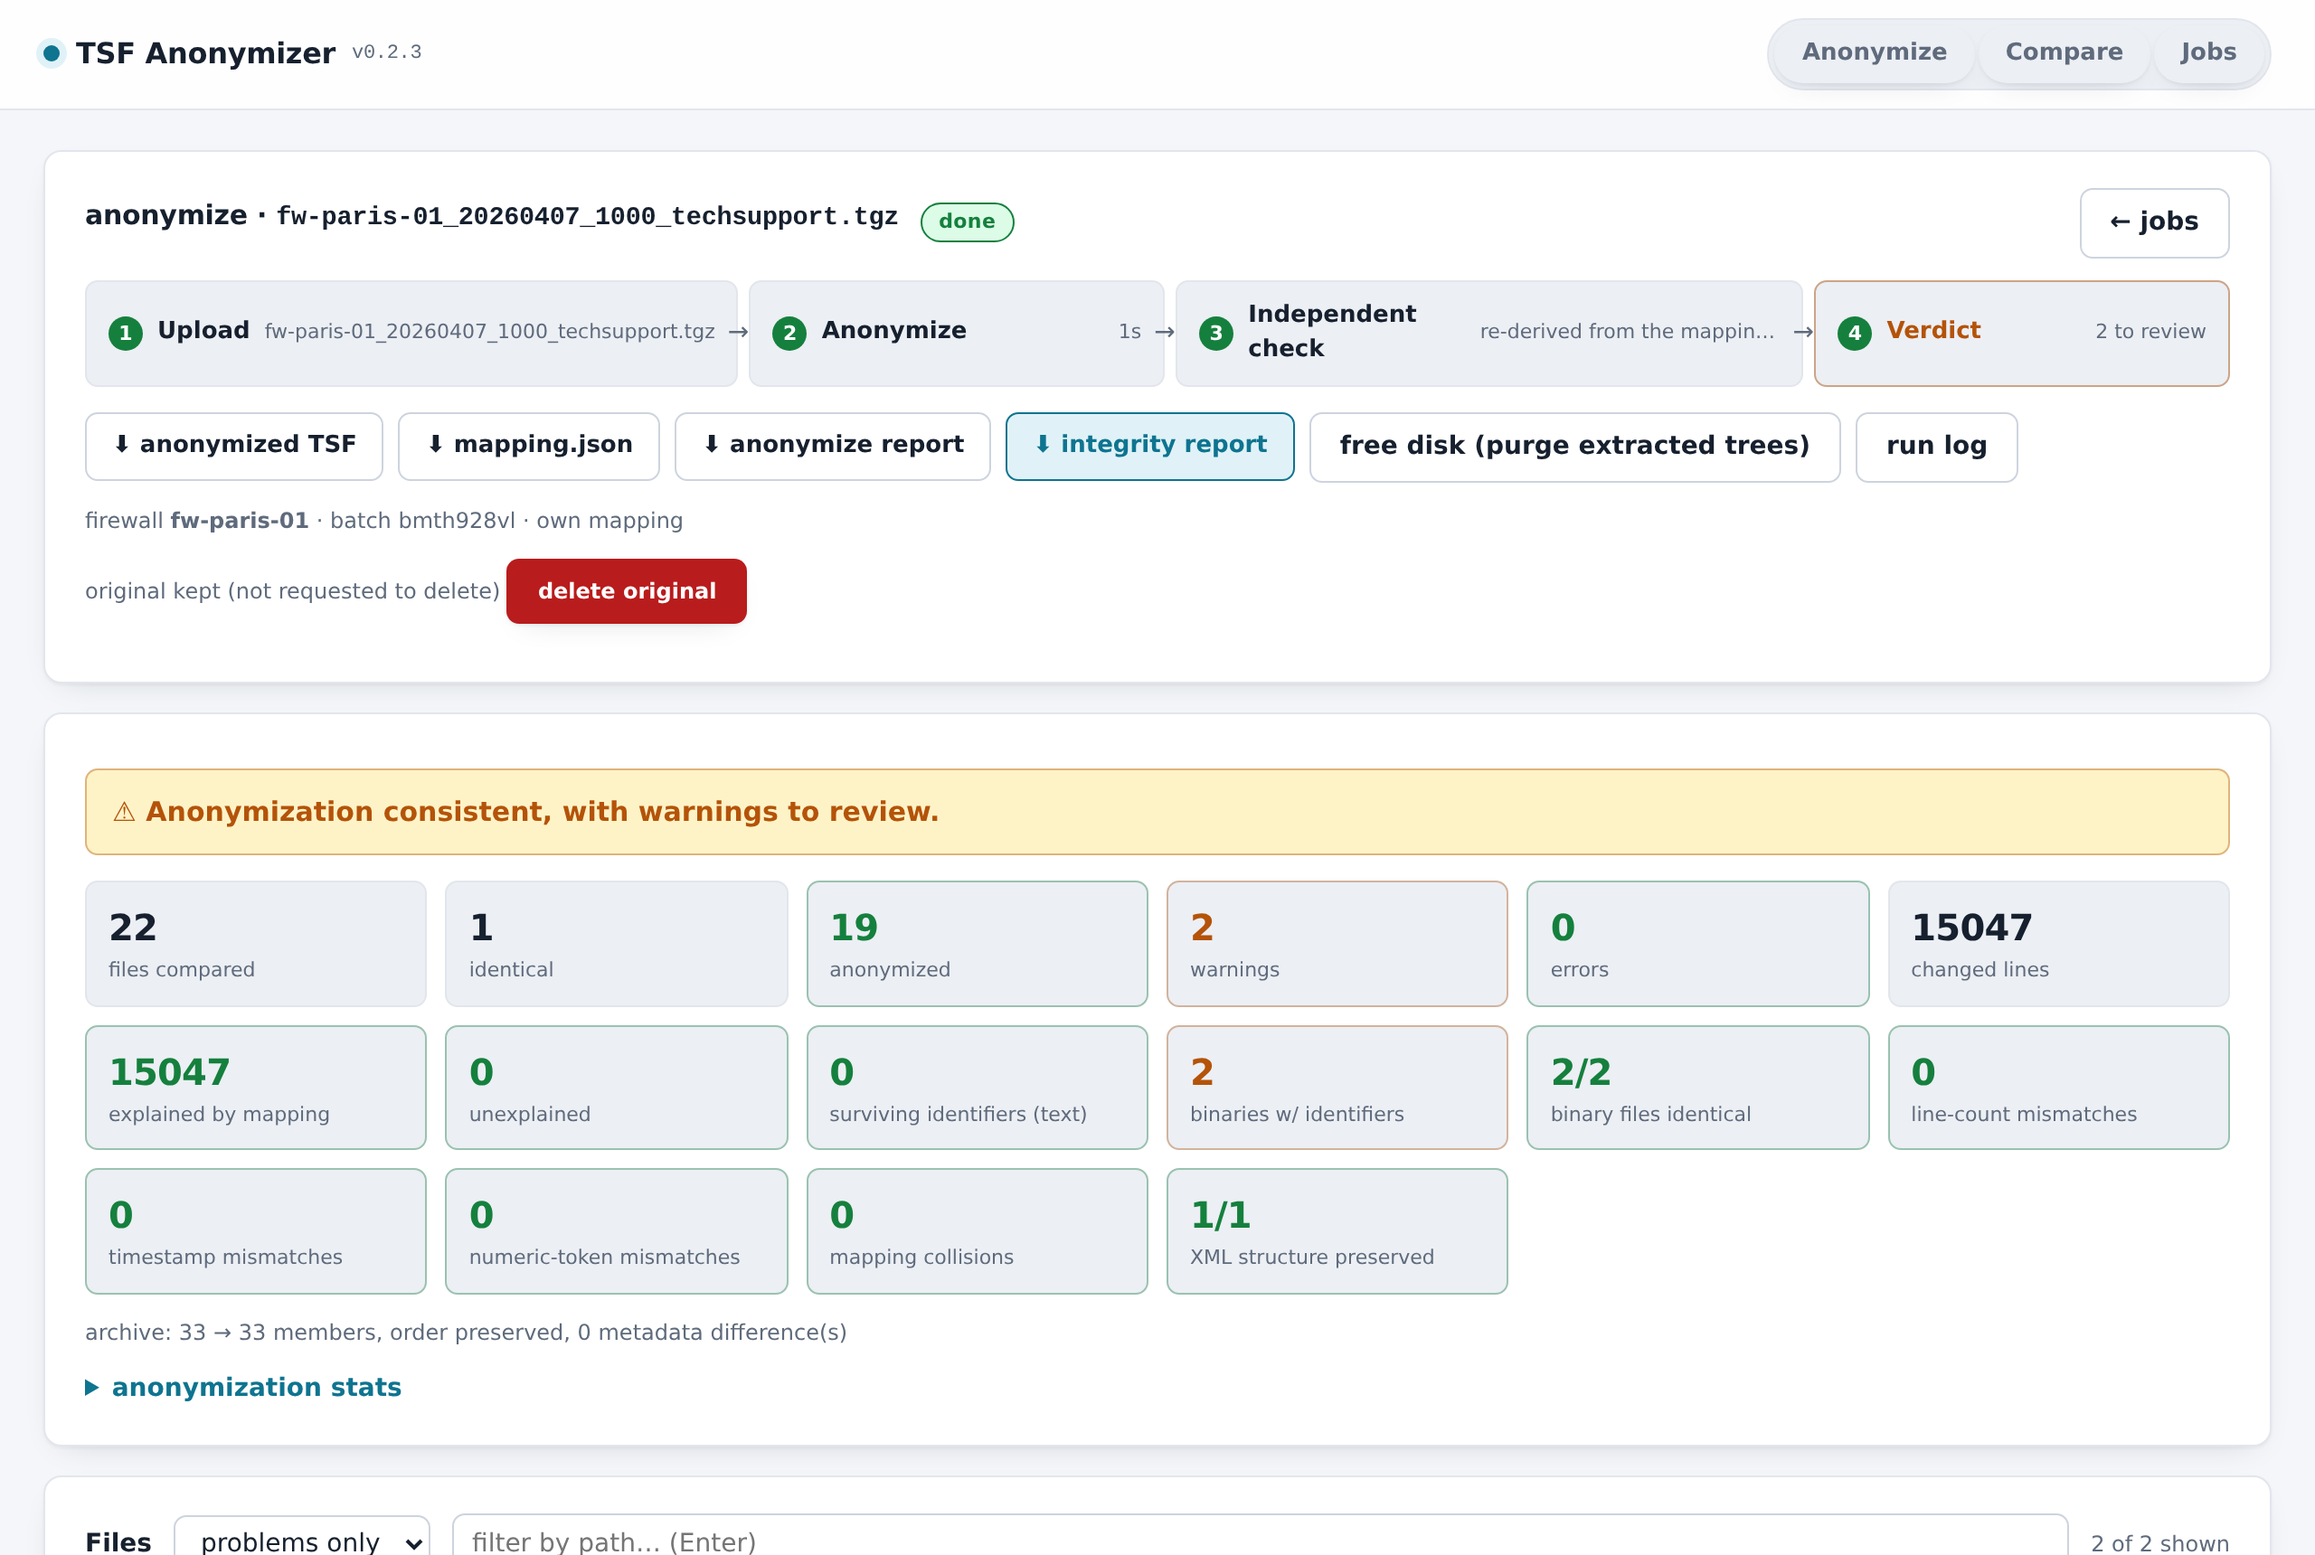
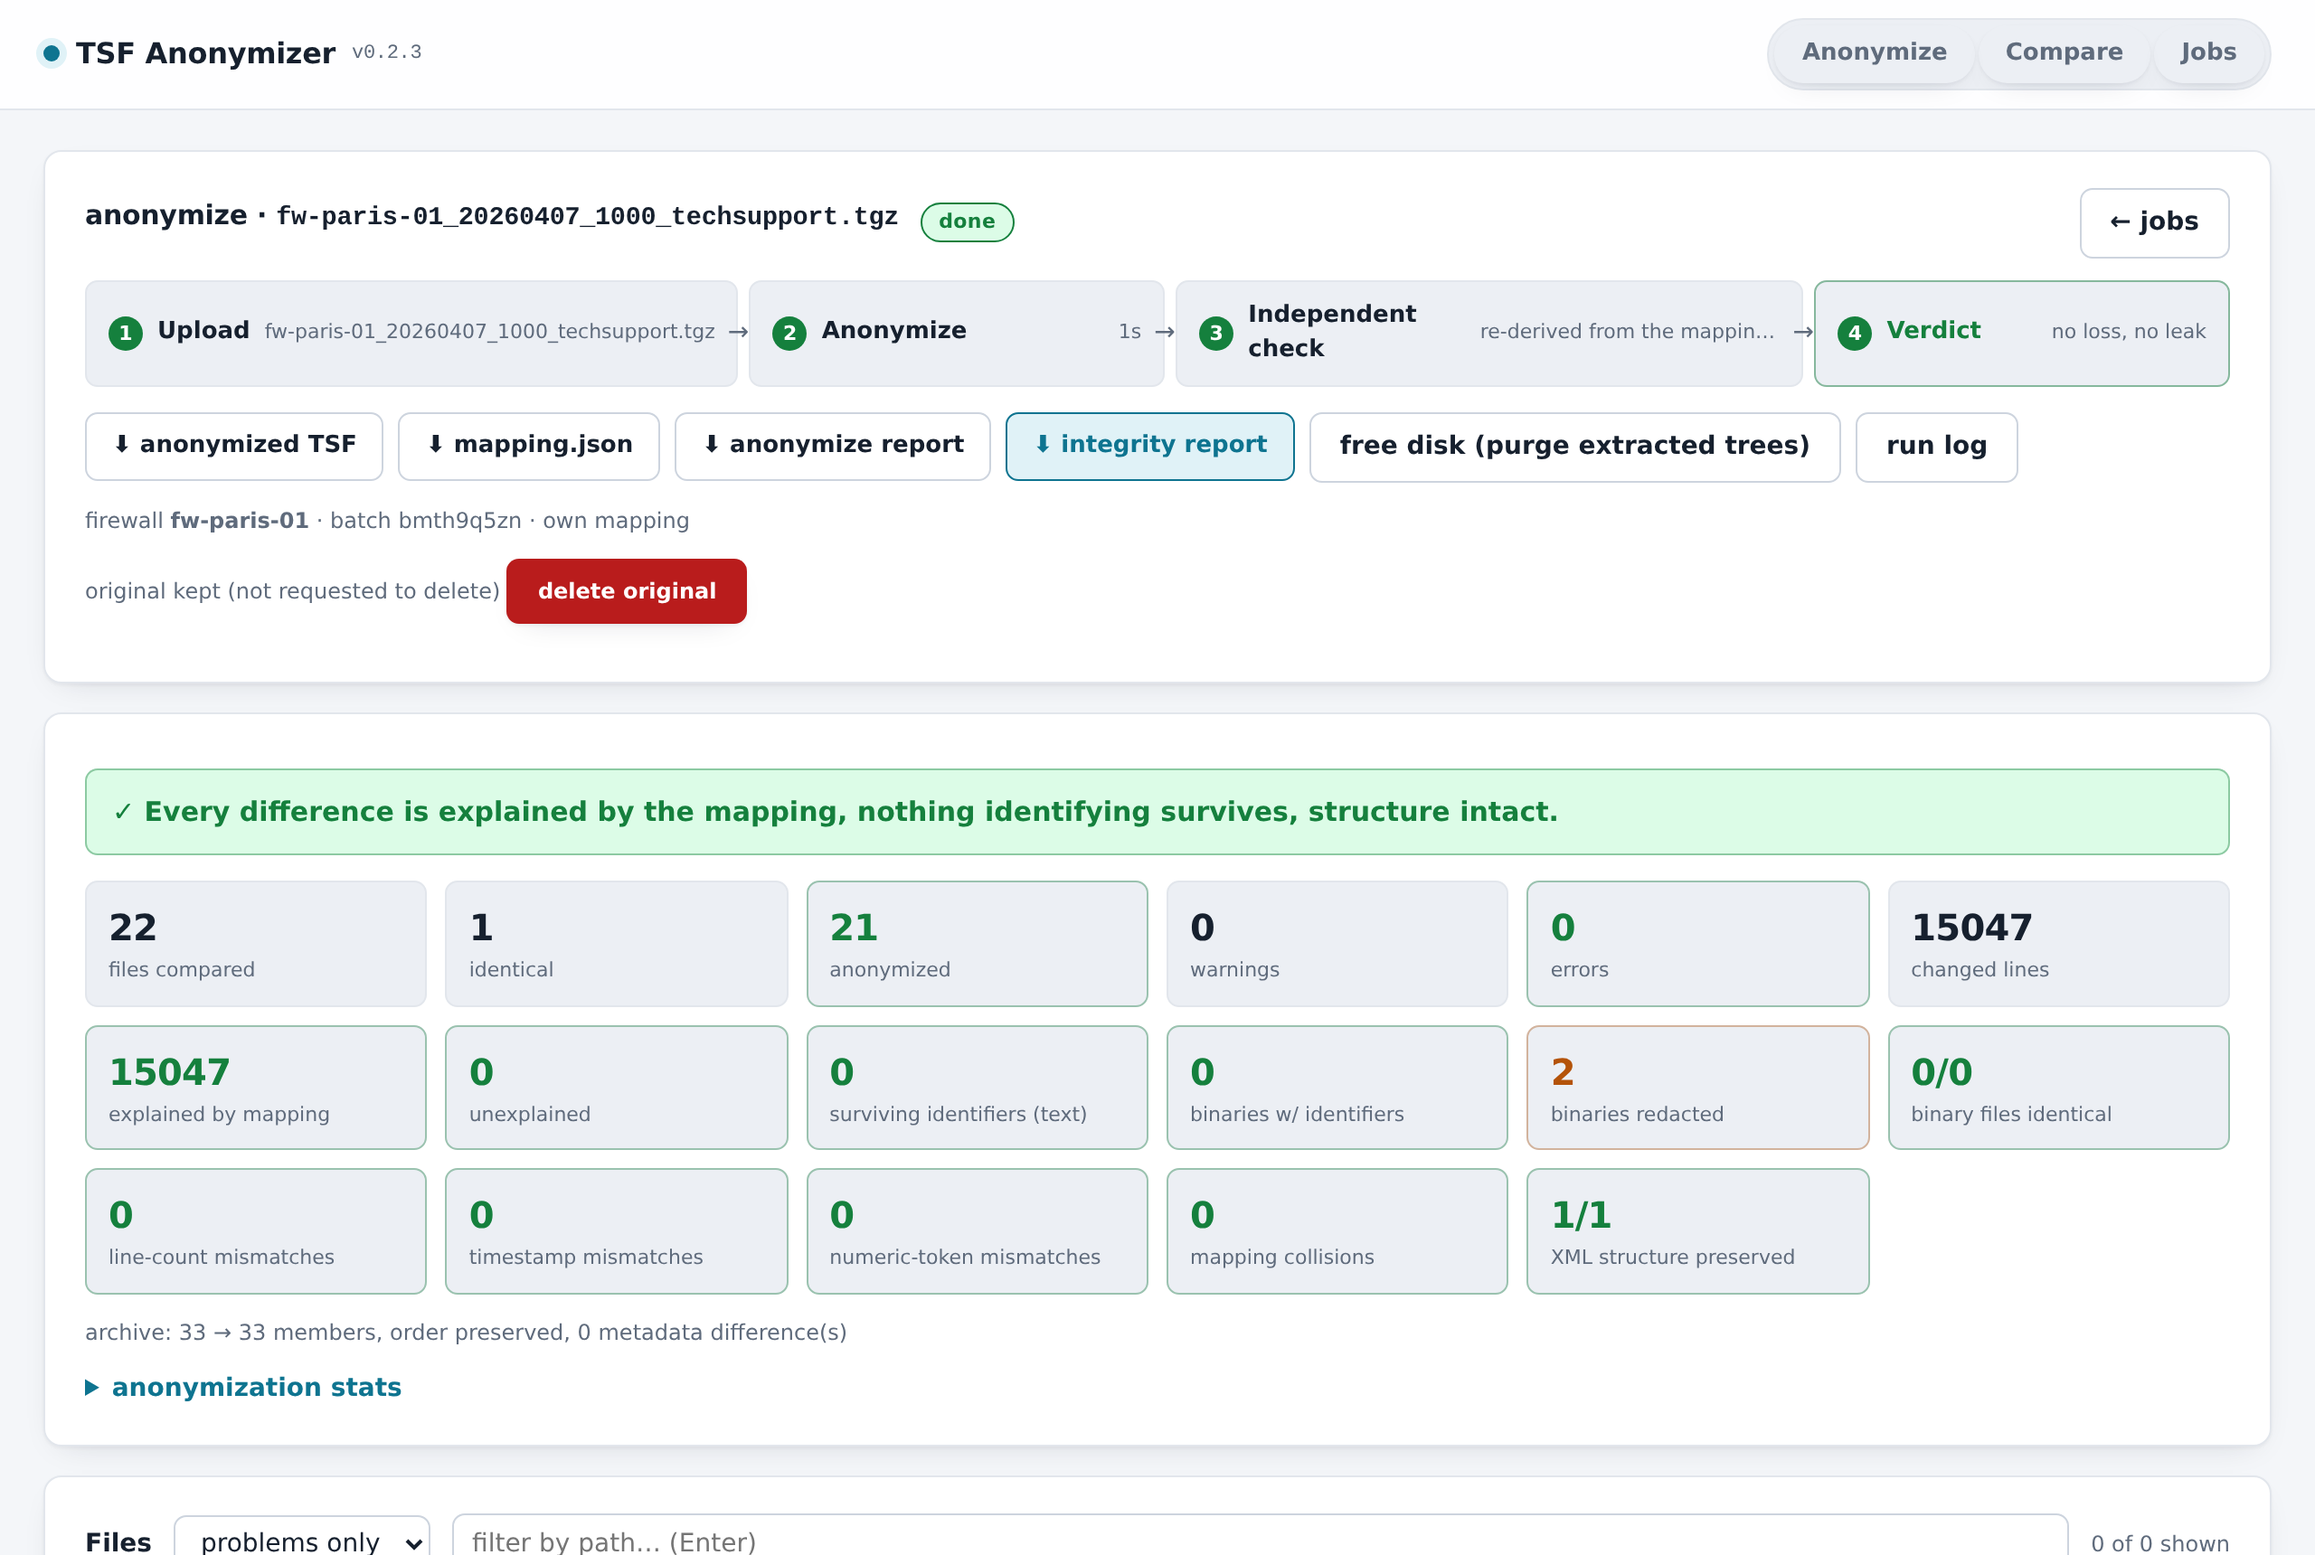
feat(web): redact binaries by default (#14)
Operator policy: no customer data leaves in a binary. Every redacted
family has a text twin that is anonymized normally (`saNN`→`sarNN`,
`rule-hit-count.bin`→`-db.txt`,
`sslvpn-task`→`show_log_globalprotect.txt`) except
`wtmp`/`btmp`/`lastlog` — admin login history, the one deliberate loss.
UI checkbox checked, API default true, CLI keeps `--redact-binaries`.
CHANGELOG under Unreleased, screenshots regenerated, web test asserts
the default.

🤖 Generated with [Claude Code](https://claude.com/claude-code)

diff --git a/tsf_anonymizer/web/templates/index.html b/tsf_anonymizer/web/templates/index.html
@@ -62,10 +62,11 @@
       <label class="check"><input type="checkbox" name="delete_original" value="true" checked>
         Delete the original after a clean verification <span class="opt">(the un-anonymized upload and
         its extracted tree are removed; with problems it is kept for review)</span></label>
-      <label class="check"><input type="checkbox" name="redact_binaries" value="true">
-        Redact binary files that embed identifiers <span class="opt">(e.g. sslvpn-task logs — their
-        payload is replaced by a marker instead of shipping the identifiers; the verification checks
-        each redaction was warranted)</span></label>
+      <label class="check"><input type="checkbox" name="redact_binaries" value="true" checked>
+        Redact binary files that embed identifiers <span class="opt">(sslvpn-task logs, wtmp/btmp, sar
+        headers… — the payload is replaced by a marker instead of shipping admin IPs and the
+        hostname; text twins such as <code>sarNN</code> and <code>rule-hit-count-db.txt</code> are
+        anonymized normally, and the verification checks each redaction was warranted)</span></label>
       <button type="submit">Start</button>
       <div class="upload-progress" hidden><div class="bar"></div><span class="label"></span></div>
       <p id="batch-log" class="notes"></p>

diff --git a/tests/test_web.py b/tests/test_web.py
@@ -68,9 +68,13 @@ def test_anonymize_job_end_to_end(client, tmp_path):
     for ident in IDENTIFIERS:
         assert ident not in json.dumps(client.get(f"/api/jobs/{job['id']}/download/integrity_report").json()["summary"])
 
-    # report filtering + paging
+    # redaction is the default: the two binaries that embed identifiers ship
+    # as markers (anonymized, not warnings), and the check says so
+    assert job["compare_summary"]["binary_redacted"] == 2
     rep = client.get(f"/api/jobs/{job['id']}/report", params={"status": "warning"}).json()
-    assert rep["total"] == 2 and all(f["status"] == "warning" for f in rep["files"])
+    assert rep["total"] == 0
+    rep = client.get(f"/api/jobs/{job['id']}/report", params={"q": "rule-hit-count.bin"}).json()
+    assert rep["files"] and all(f["redacted"] for f in rep["files"])
     rep = client.get(f"/api/jobs/{job['id']}/report", params={"q": "system.log", "limit": 1}).json()
     assert rep["total"] == 2 and len(rep["files"]) == 1
 

diff --git a/tsf_anonymizer/web/app.py b/tsf_anonymizer/web/app.py
@@ -119,7 +119,7 @@ def create_app(data_dir: Path | None = None, *,
     async def create_anonymize(file: UploadFile = File(...),
                                seed_mapping: UploadFile | None = File(None),
                                delete_original: bool = Form(True),
-                               redact_binaries: bool = Form(False),
+                               redact_binaries: bool = Form(True),
                                batch: str | None = Form(None),
                                group: str | None = Form(None),
                                seed_from_job: str | None = Form(None)):

diff --git a/README.md b/README.md
@@ -72,10 +72,13 @@ independently of the anonymizer:
 2. no mapping key survives in any text file — and binary files, which are not
    rewritten, are scanned for identifiers too and flagged as warnings. Some
    binary formats embed thousands of them (`sslvpn-task.log*.gz` carries the
-   source IP and username of every GlobalProtect request); the opt-in
-   **redact binaries** checkbox (`--redact-binaries`) replaces such payloads
-   with a marker instead, and the verification then checks each redaction was
-   warranted against the original;
+   source IP and username of every GlobalProtect request; `wtmp`/`btmp` hold
+   admin login IPs, `sar` headers the hostname). **Redact binaries** — on by
+   default in the UI and the API, `--redact-binaries` on the CLI — replaces
+   such payloads with a marker instead; the text twins (`sarNN`,
+   `rule-hit-count-db.txt`, `show_log_globalprotect.txt`) are anonymized
+   normally, so nothing an analysis needs is lost, and the verification
+   checks each redaction was warranted against the original;
 3. line counts, timestamp counts, short-numeric-token counts (counters, PIDs,
    sizes) and the XML tag sequence are identical on both sides;
 4. binary files are byte-identical; archive members, order and metadata match.

diff --git a/CLAUDE.md b/CLAUDE.md
@@ -355,9 +355,12 @@ The human-facing version is CONTRIBUTING.md; this is the operational one.
   format (GpTaskStat records, length-prefixed strings) holding SrcIp/UserName/
   Portal per record — ~27 000 flagged identifiers per file on a real TSF.
   Rewriting length-prefixed strings would corrupt the framing; the operator
-  decides whether such files may ship — `redact_binaries` (a per-job opt-in:
-  UI checkbox, `--redact-binaries`) replaces such payloads with
-  `REDACTED_PAYLOAD` instead. The core decides with its *own* scanner
+  decides whether such files may ship — `redact_binaries` (on by default in
+  the UI and the API, `--redact-binaries` on the CLI) replaces such payloads
+  with `REDACTED_PAYLOAD` instead. Measured on eight real TSFs: every redacted
+  family has a text twin (`saNN`→`sarNN`, `rule-hit-count.bin`→`-db.txt`,
+  `sslvpn-task`→`show_log_globalprotect.txt`) except `wtmp`/`btmp`/`lastlog`
+  — admin login history, the one deliberate loss. The core decides with its *own* scanner
   (deliberately duplicated boundaries, not shared code) and the compare
   verifies each redaction was warranted against the original — an
   unwarranted one is a warning, gratuitous data loss.

diff --git a/docs/user-guide.md b/docs/user-guide.md
@@ -176,7 +176,7 @@ Same code, no server:
 tsf-anonymizer anonymize in.tgz --verify --report integrity.json          # anonymize + check
 tsf-anonymizer anonymize in.tgz --verify --delete-original                # … and delete on success
 tsf-anonymizer anonymize next.tgz --seed-mapping in_anon.mapping.json     # same customer, same pseudonyms
-tsf-anonymizer anonymize in.tgz --redact-binaries --workers 4
+tsf-anonymizer anonymize in.tgz --redact-binaries --workers 4             # redaction is on by default in the UI/API, a flag on the CLI
 tsf-anonymizer compare in.tgz in_anon.tgz --mapping in_anon.mapping.json  # check alone
 tsf-anonymizer serve --host 127.0.0.1 --port 8090 --data-dir ./data       # the UI, open, loopback
 tsf-anonymizer mock-tsf -o demo.tgz --lines 5000                          # a synthetic archive

diff --git a/CHANGELOG.md b/CHANGELOG.md
@@ -30,6 +30,14 @@ change what is mapped, a patch bump only fixes).
   `tsf_anonymizer.__version__` reads it from the installed metadata.
 - Ruff now also enforces import order, modern syntax and bugbear checks.
 
+### Changed
+- Binary redaction is **on by default** in the web UI and the API
+  (`redact_binaries`): a binary member that embeds mapped identifiers
+  (`sslvpn-task` GpTaskStat records, `wtmp`/`btmp`/`lastlog`, `sar` headers,
+  `rule-hit-count.bin`) ships as a marker instead. Every family but the login
+  history has a text twin that is anonymized normally. The CLI keeps its
+  `--redact-binaries` flag.
+
 ## [0.2.3] - 2026-08-31
 
 ### Fixed
